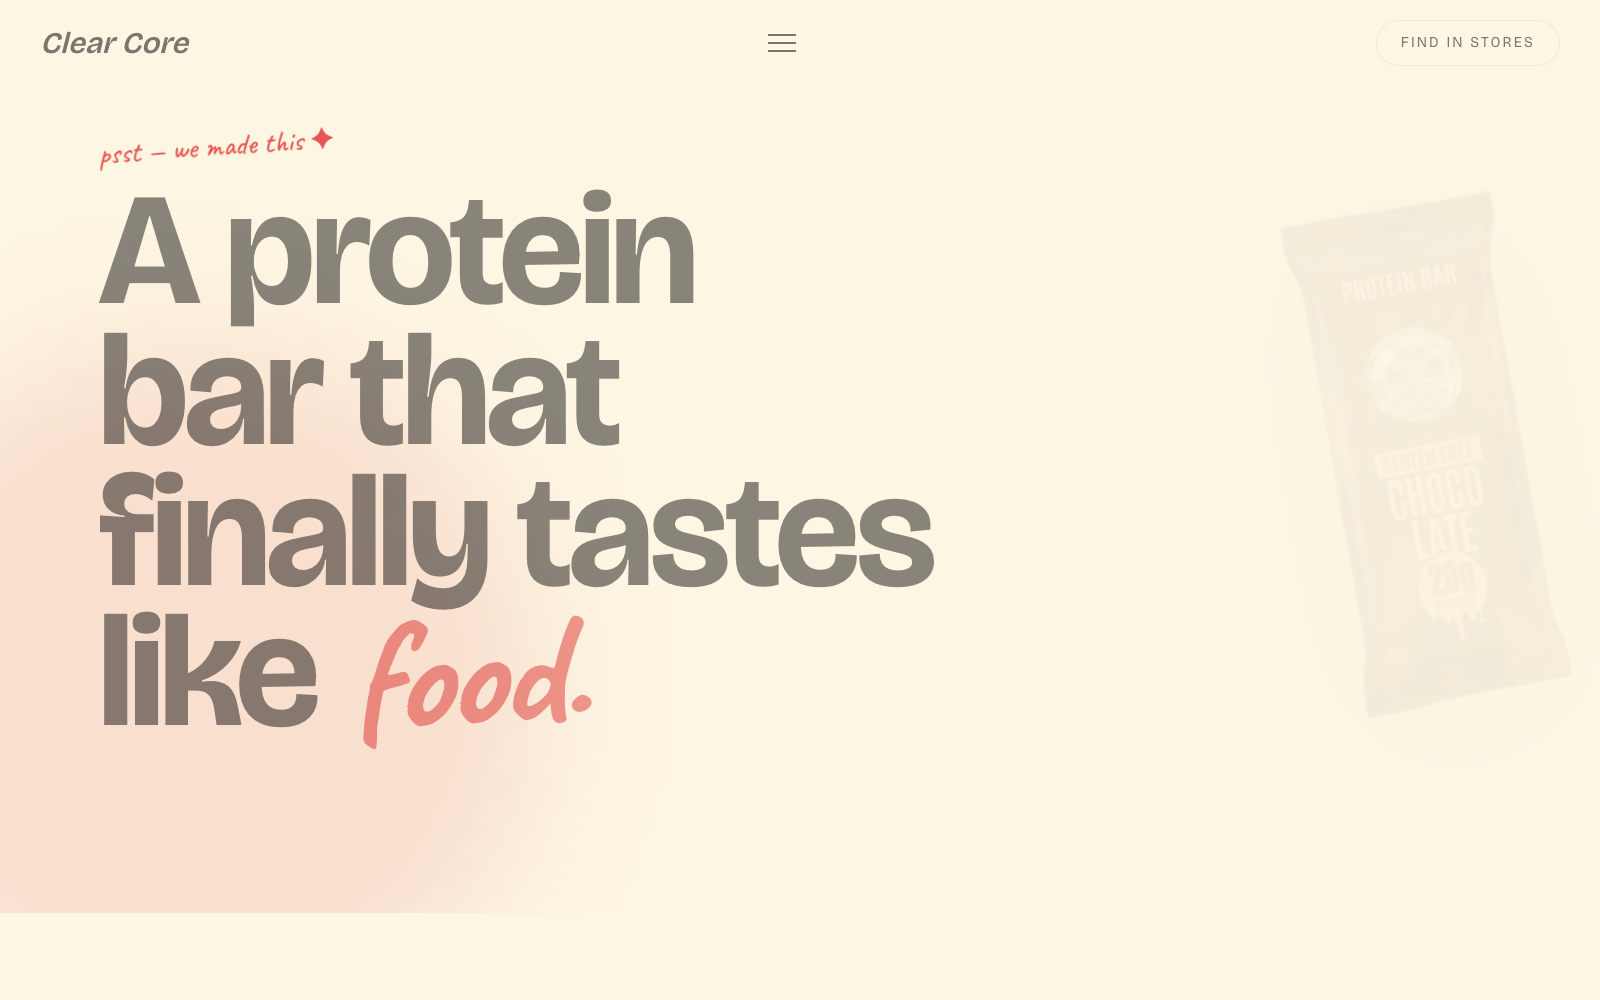
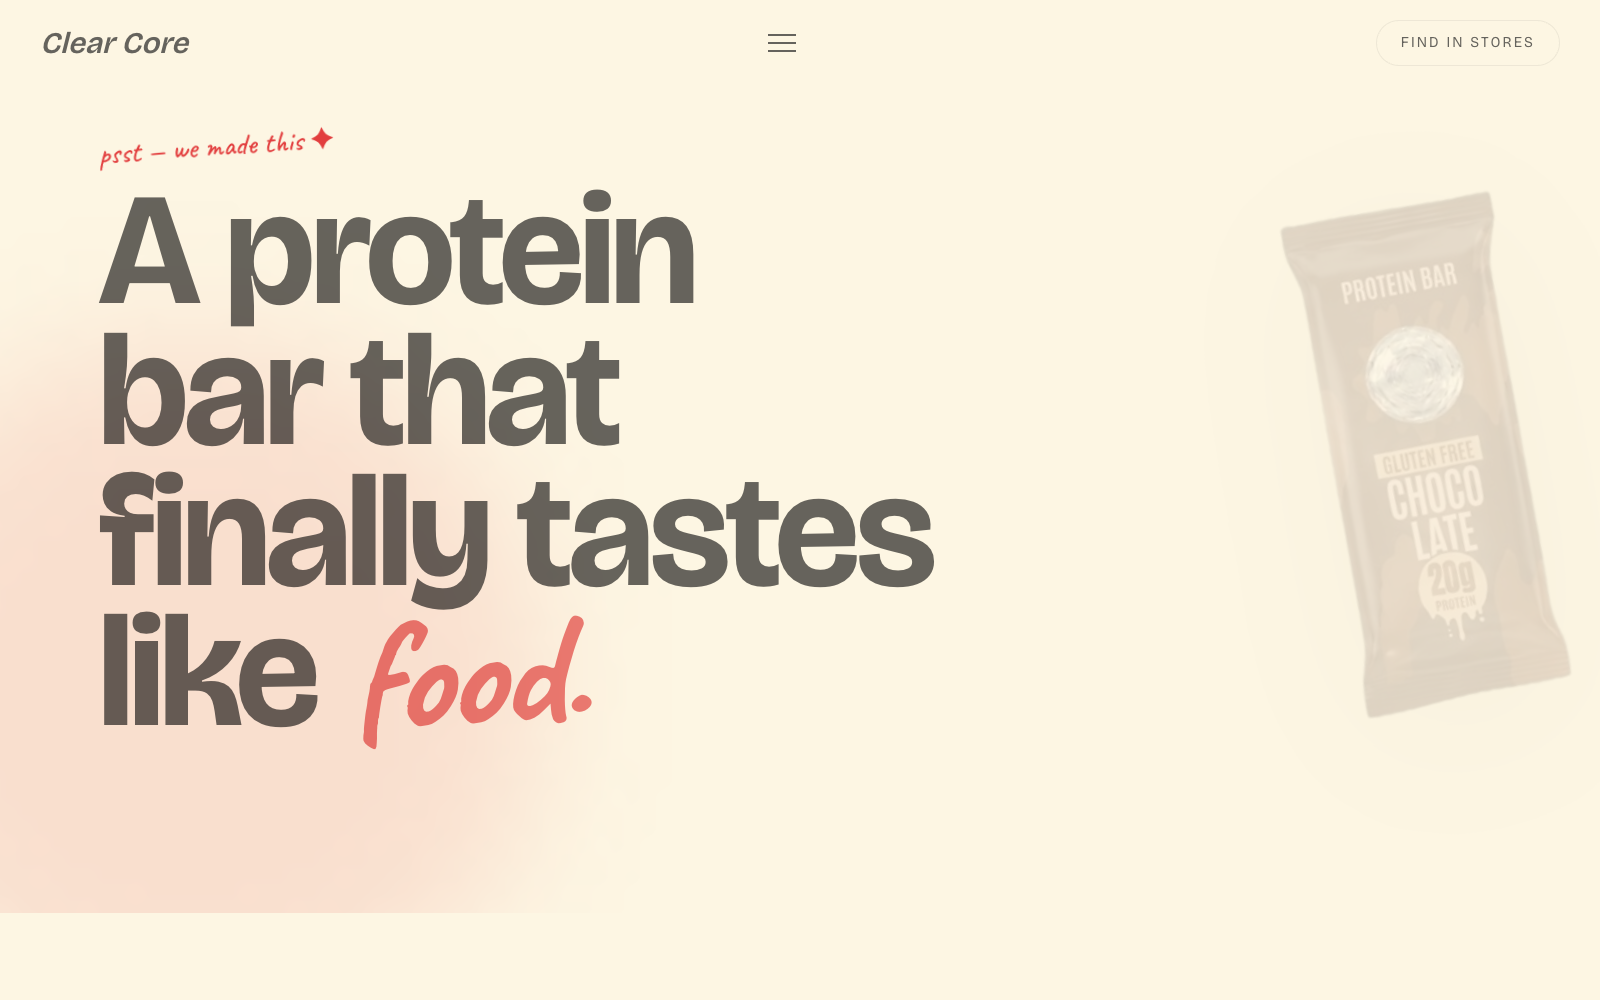
Scale bar images to balance their pairing content
The new packaging shots are landscape (~610x409, 1.49:1) instead of
the previous portrait-ish renders, so the bars looked undersized
next to tall content blocks.

Nutrition section:
- Grid changed from md:grid-cols-2 to md:grid-cols-[1.4fr_1fr]
  giving the bar column 40% more horizontal room (matches the
  image's 1.5:1 ratio against a tall FDA-style facts panel)
- Image max-width removed (was max-w-md / 448px), letting it fill
  the wider column so its visual height lands near the panel's
- Rotation bumped from -4deg to -6deg for slightly more energy

FlavorDetailPage hero:
- Bar max-width bumped from max-w-lg (512px) to max-w-2xl (672px)
  so it doesn't read undersized next to the eyebrow + h1 +
  description + 3 pill chips + 2 CTAs in the left column

FlavorCard (home + /flavors grid) and Hero (off-canvas bar)
unchanged — they're already sized in relative units that work
with either aspect ratio.

diff --git a/src/sections/Nutrition.tsx b/src/sections/Nutrition.tsx
@@ -70,8 +70,11 @@ export default function Nutrition() {
           ))}
         </motion.div>
 
-        {/* product + facts panel */}
-        <div className="grid md:grid-cols-2 gap-10 lg:gap-16 items-center">
+        {/* product + facts panel — sized so the bar visually balances
+            the tall facts label. Landscape packaging means the image is
+            ~1.5:1, so it needs roughly 1.5x the width of the panel to
+            land at the same visual height. */}
+        <div className="grid md:grid-cols-[1.4fr_1fr] gap-10 lg:gap-16 items-center">
           <motion.div
             initial={{ opacity: 0, scale: 0.92 }}
             whileInView={{ opacity: 1, scale: 1 }}
@@ -82,7 +85,7 @@ export default function Nutrition() {
             <img
               src="/products/chocolate.png"
               alt="Clear Core chocolate protein bar"
-              className="w-full max-w-md drop-shadow-2xl rotate-[-4deg]"
+              className="w-full max-w-none drop-shadow-2xl rotate-[-6deg]"
             />
           </motion.div>
 

diff --git a/src/pages/FlavorDetailPage.tsx b/src/pages/FlavorDetailPage.tsx
@@ -70,7 +70,7 @@ export default function FlavorDetailPage() {
             <img
               src={flavor.image}
               alt={`Clear Core ${flavor.name} protein bar`}
-              className="w-full max-w-lg drop-shadow-2xl"
+              className="w-full max-w-2xl drop-shadow-2xl"
             />
           </motion.div>
         </div>